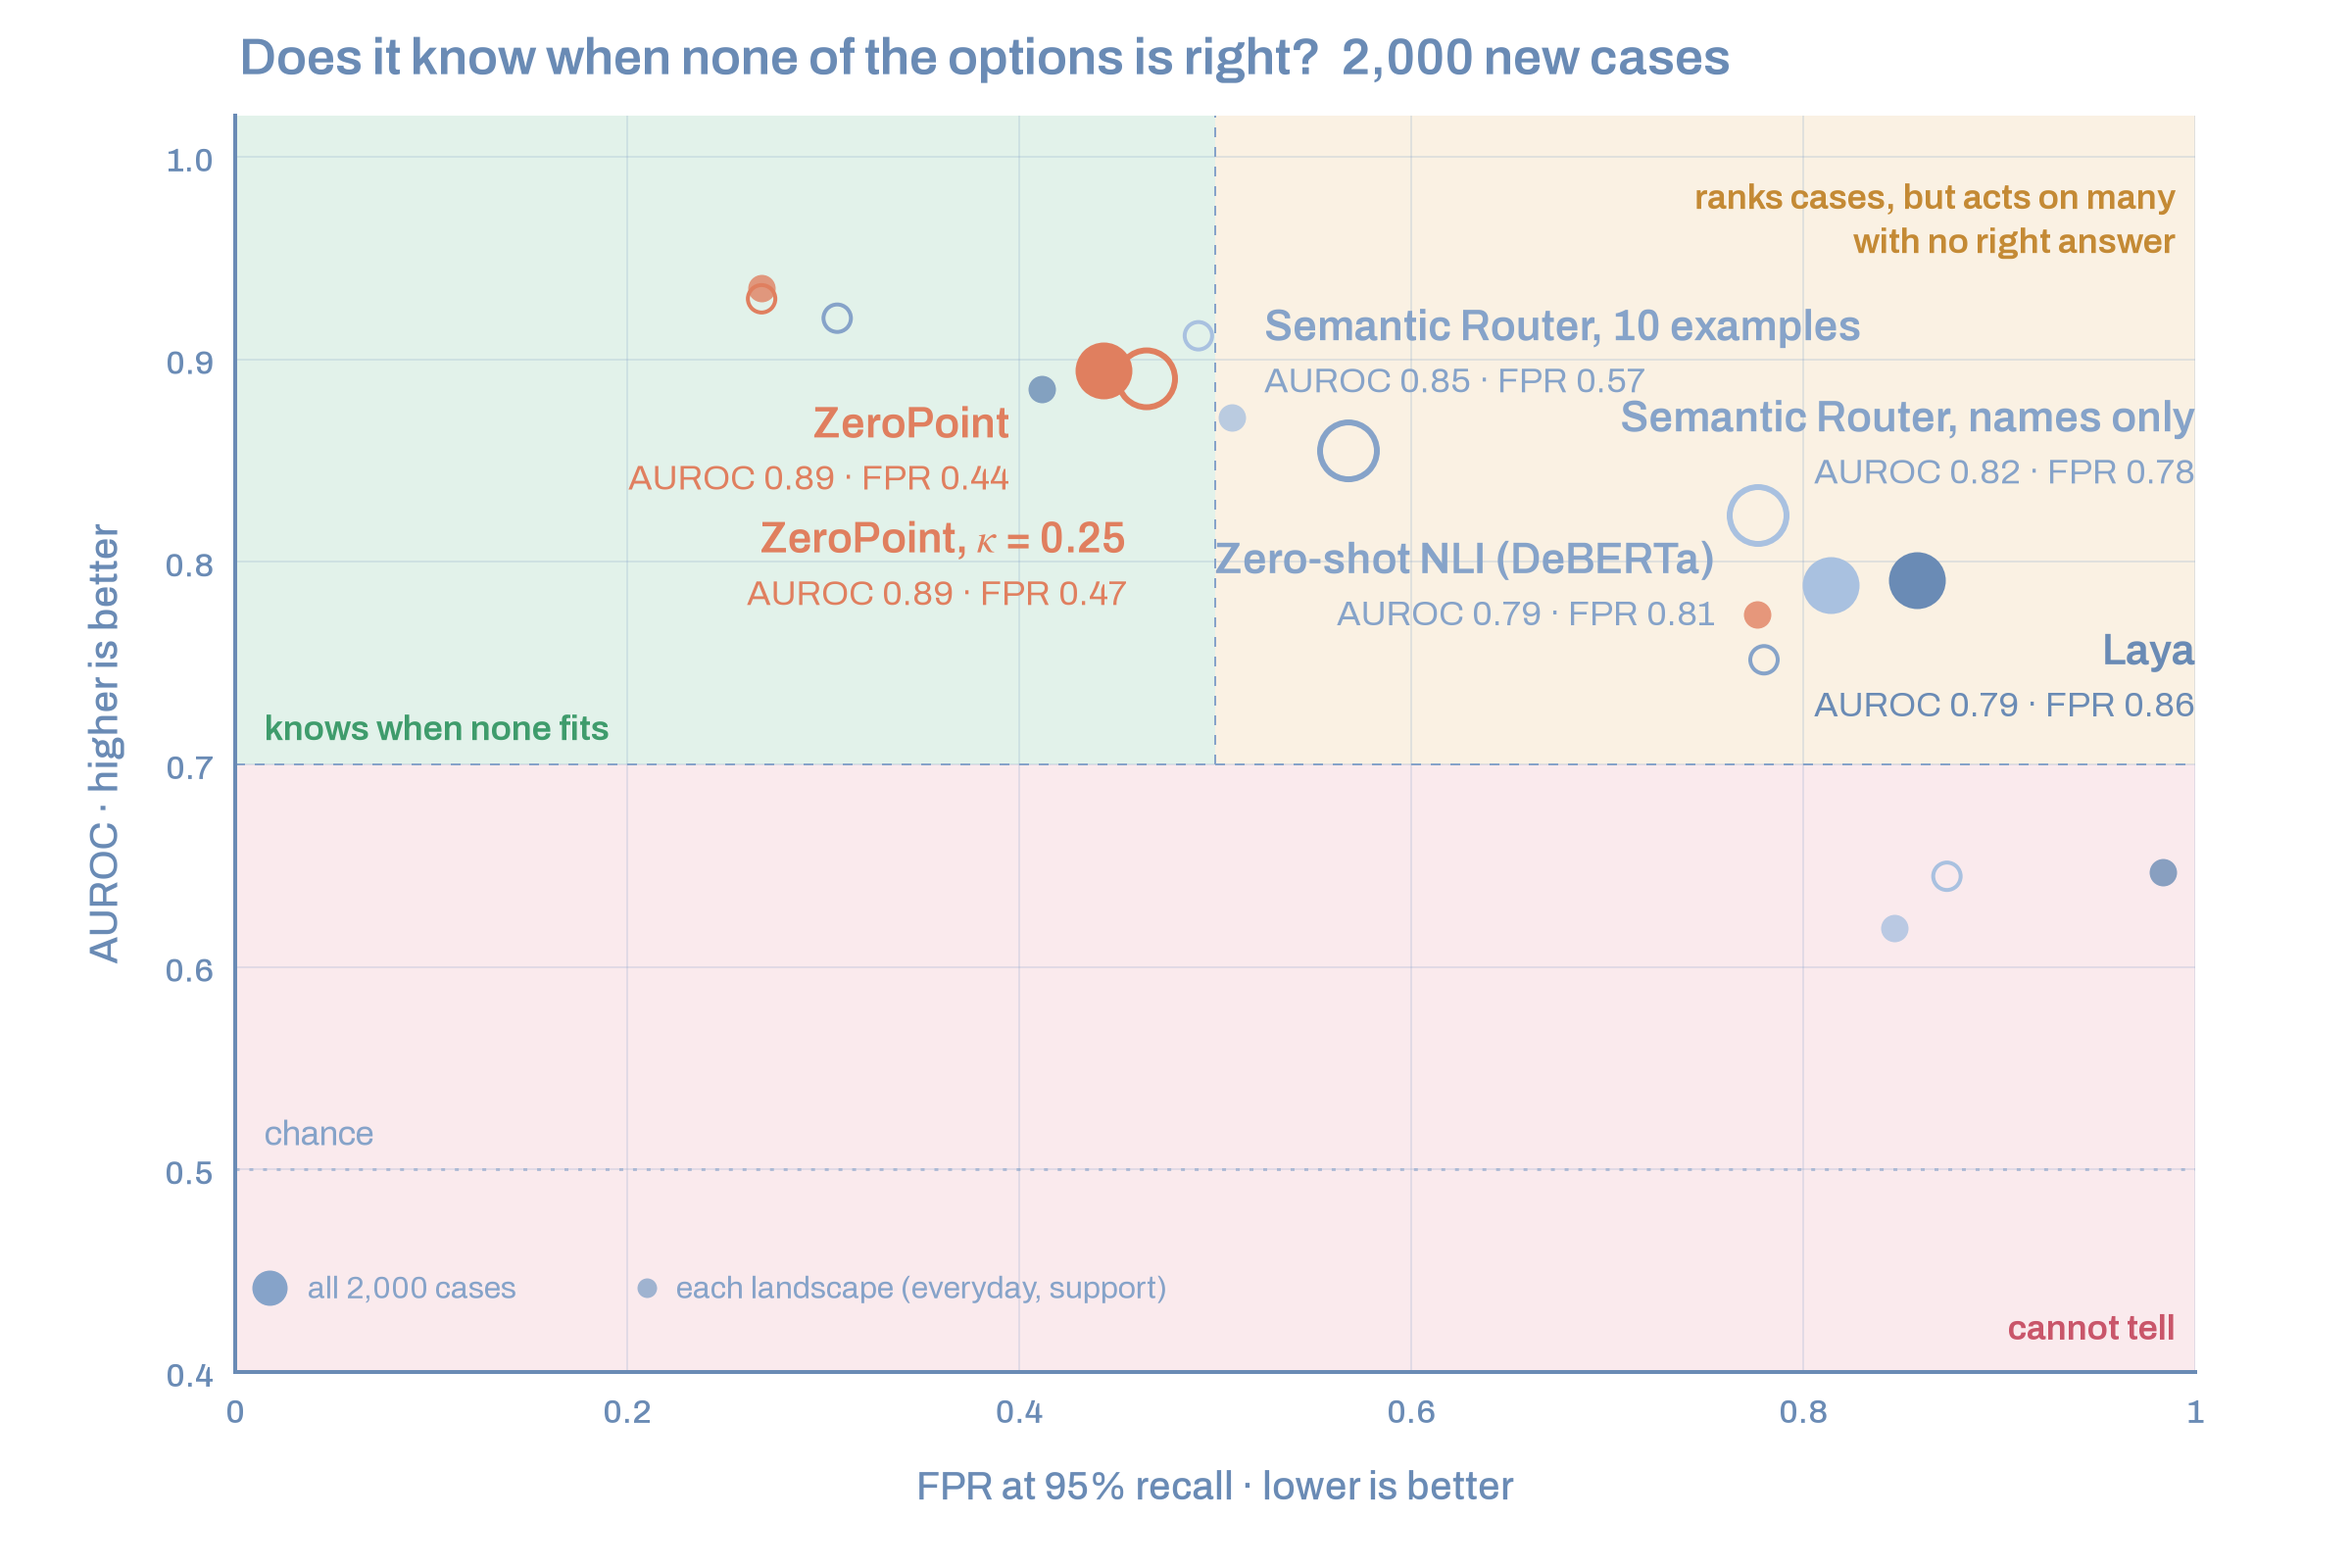
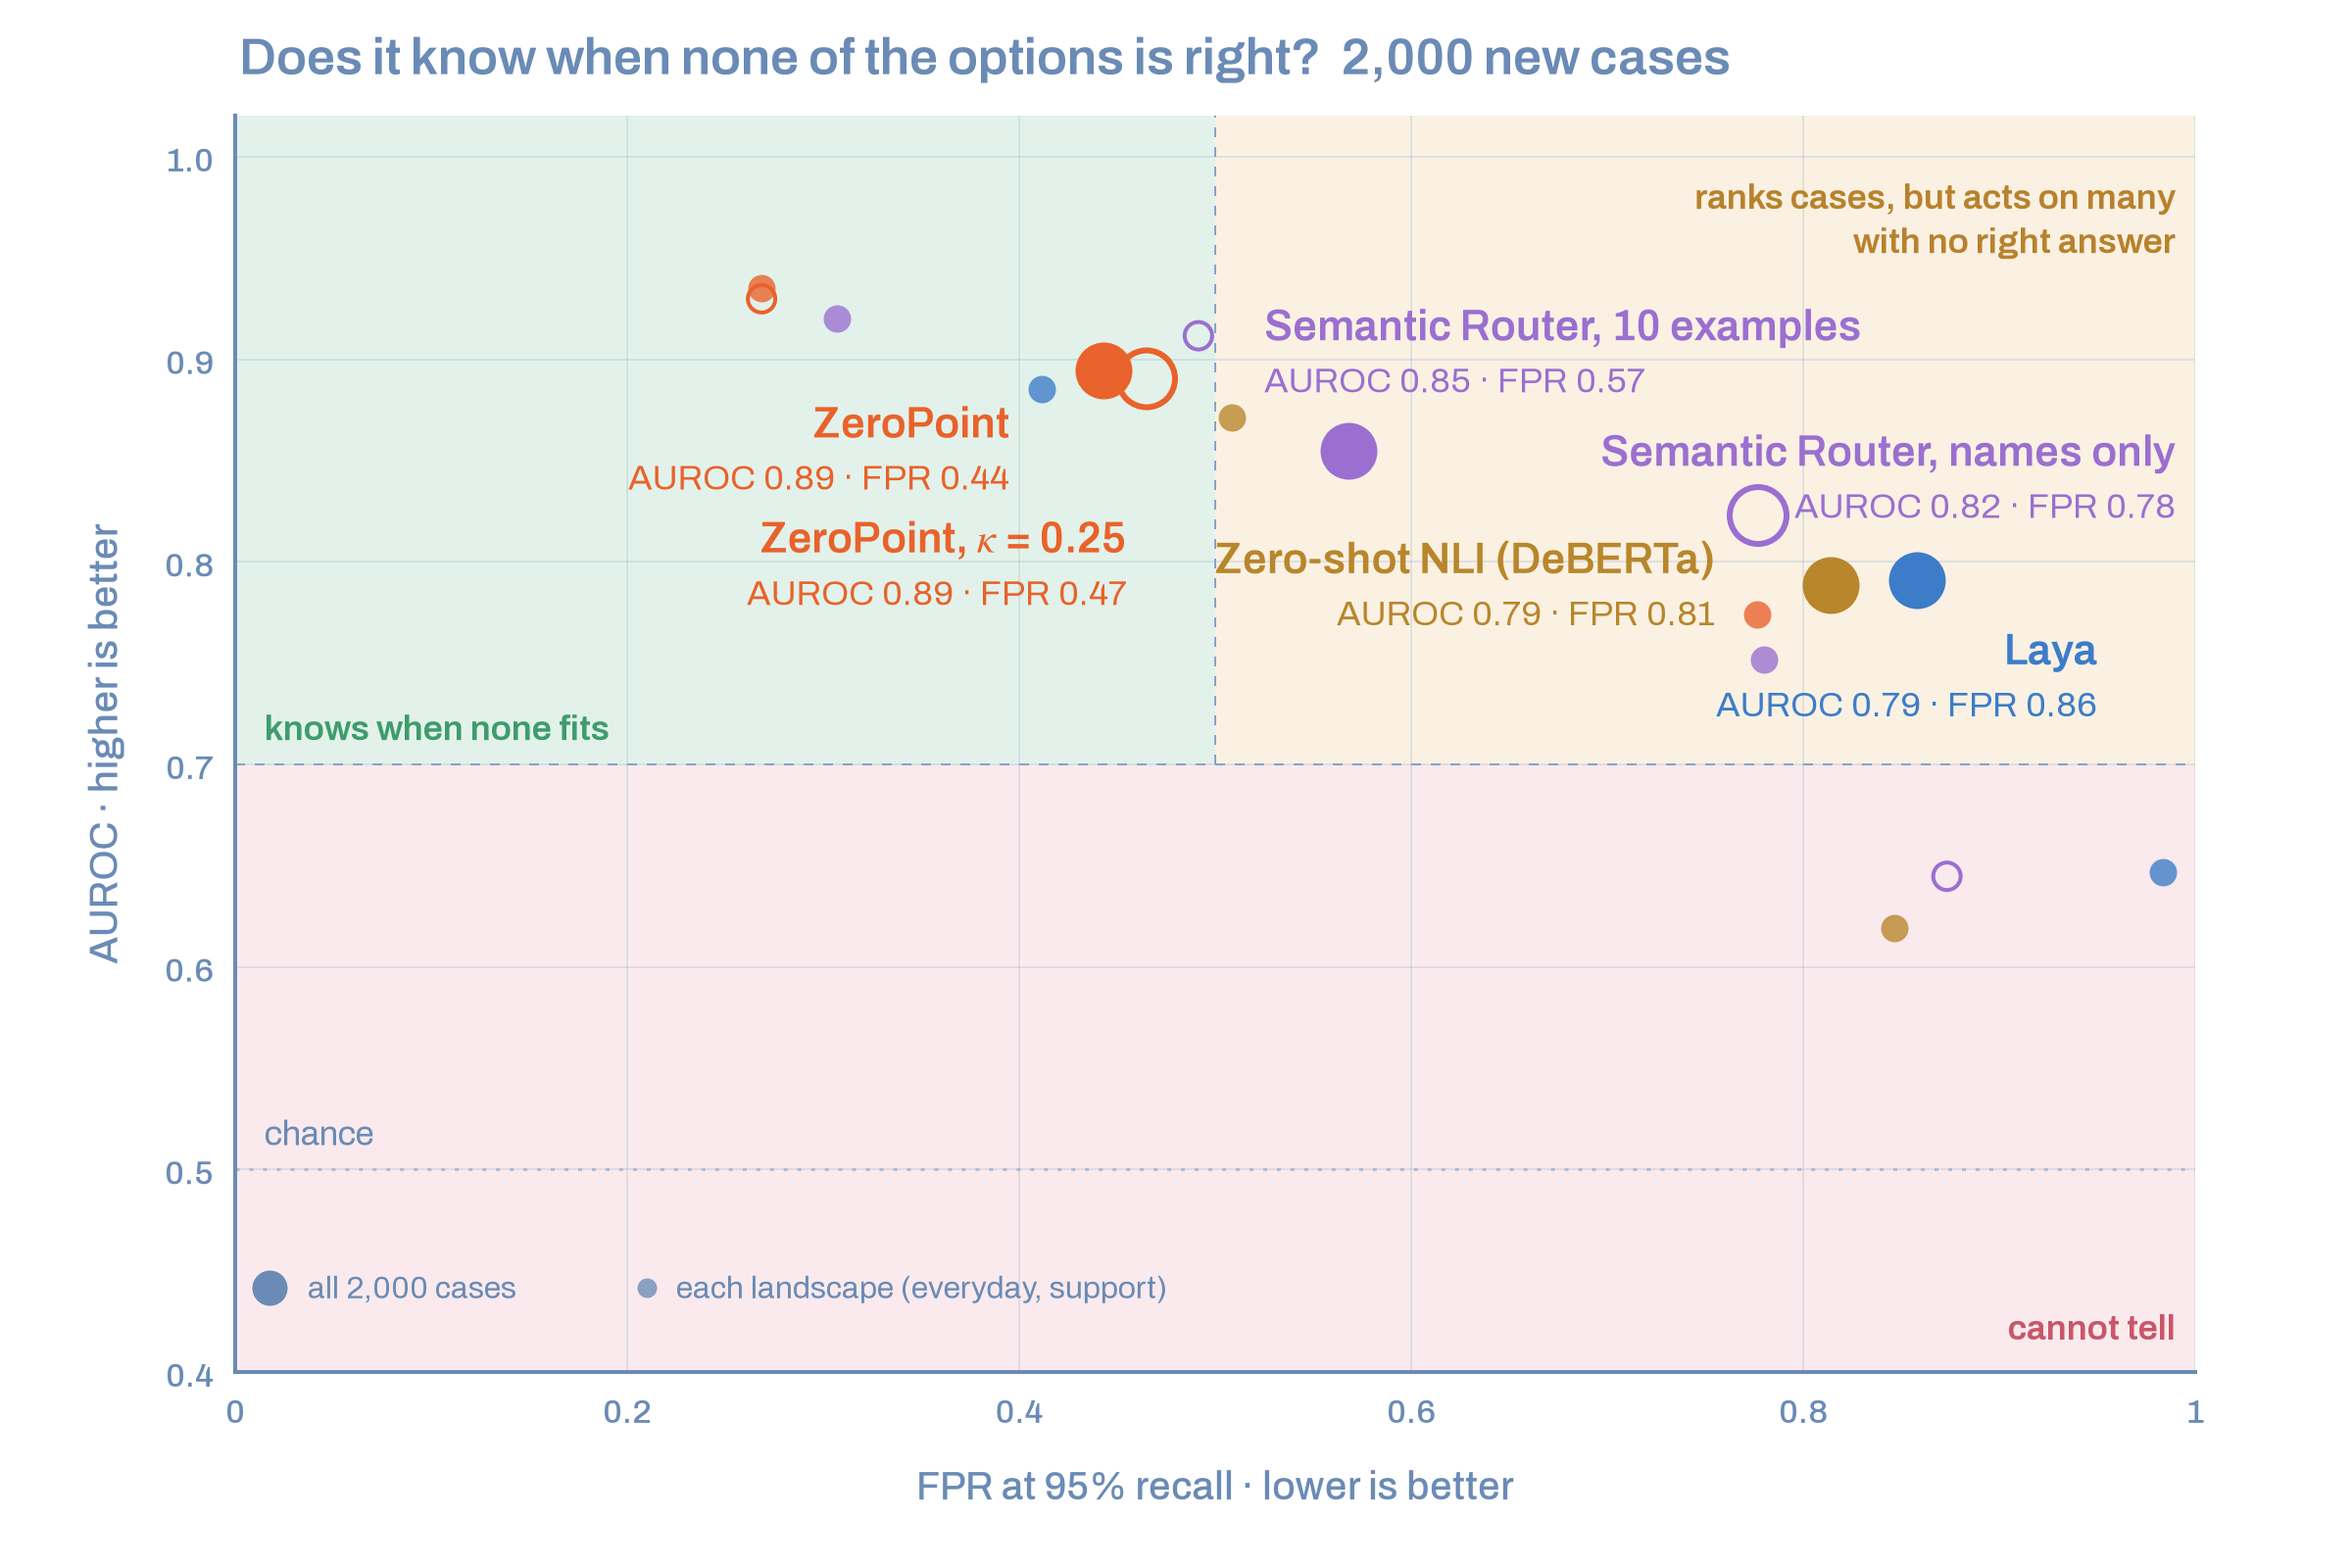
Benchmark chart: one colour per system, readable on dark and light backgrounds (#25)

diff --git a/benchmarks/benchmark_2000/chart.py b/benchmarks/benchmark_2000/chart.py
@@ -31,21 +31,27 @@ DPI = 120
 PT = 72 / DPI                     # points per pixel
 px = lambda v: v * PT             # size in pixels -> points
 
-BLUE, LINE, ORANGE, LIGHT = "#6a8bb5", "#86a3c9", "#e07f5f", "#a9c1e0"
+BLUE, LINE = "#6a8bb5", "#86a3c9"          # axes and grid, as in benchmark-chart.png
+# One colour per system, each with at least 3:1 contrast on GitHub's dark background (#0d1117) and on white.
+ZP = "#e9622b"        # ZeroPoint            dark 5.6 · white 3.4
+LAYA = "#3d7cc9"      # Laya                 dark 4.4 · white 4.3
+SR = "#9b6fd0"        # Semantic Router      dark 5.0 · white 3.8
+NLI = "#b8862b"       # zero-shot NLI        dark 5.8 · white 3.2
+NEUTRAL = BLUE        # legend and "chance"  dark 5.4 · white 3.5
 ZONE_GREEN, ZONE_AMBER, ZONE_RED = (75 / 255, 174 / 255, 124 / 255, 0.16), (224 / 255, 168 / 255, 81 / 255, 0.16), \
     (214 / 255, 82 / 255, 107 / 255, 0.12)
-TXT_GREEN, TXT_AMBER, TXT_RED = "#3f9c6c", "#c48a35", "#c9566a"
+TXT_GREEN, TXT_AMBER, TXT_RED = "#3f9c6c", "#b8822c", "#c9566a"
 
 BIG, SMALL = px(58) ** 2, px(28) ** 2          # marker areas (pt^2) for 58 px and 28 px circles
 
 # system -> label, colour, filled, label anchor (x, y in data units), alignment
 STYLE = {
-    "zeropoint": ("ZeroPoint", ORANGE, True, (0.395, 0.857), "right"),
-    "zeropoint_k025": (r"ZeroPoint, $\kappa$ = 0.25", ORANGE, False, (0.455, 0.80), "right"),
-    "sr_fewshot": ("Semantic Router, 10 examples", LINE, False, (0.525, 0.905), "left"),
-    "sr_names": ("Semantic Router, names only", LIGHT, False, (1.0, 0.86), "right"),
-    "laya": ("Laya", BLUE, True, (1.0, 0.745), "right"),
-    "nli_deberta": ("Zero-shot NLI (DeBERTa)", LIGHT, True, (0.755, 0.79), "right"),
+    "zeropoint": ("ZeroPoint", ZP, True, (0.395, 0.857), "right"),
+    "zeropoint_k025": (r"ZeroPoint, $\kappa$ = 0.25", ZP, False, (0.455, 0.80), "right"),
+    "sr_fewshot": ("Semantic Router, 10 examples", SR, True, (0.525, 0.905), "left"),
+    "sr_names": ("Semantic Router, names only", SR, False, (0.99, 0.843), "right"),
+    "laya": ("Laya", LAYA, True, (0.95, 0.745), "right"),
+    "nli_deberta": ("Zero-shot NLI (DeBERTa)", NLI, True, (0.755, 0.79), "right"),
 }
 
 
@@ -87,7 +93,7 @@ def main(results_path, out_path):
     ax.text(0.99, 0.99, "ranks cases, but acts on many\nwith no right answer", fontsize=px(36), color=TXT_AMBER,
             weight="semibold", ha="right", va="top", linespacing=1.15)
     ax.text(0.99, 0.416, "cannot tell", fontsize=px(36), color=TXT_RED, weight="semibold", ha="right")
-    ax.text(0.015, 0.512, "chance", fontsize=px(35), color=LINE)
+    ax.text(0.015, 0.512, "chance", fontsize=px(35), color=NEUTRAL)
 
     for n, (label, col, filled, (lx, ly), ha) in STYLE.items():
         if n not in R:
@@ -103,16 +109,16 @@ def main(results_path, out_path):
             ax.scatter([e["fpr95"]], [e["auroc"]], s=BIG, color=col, lw=0, zorder=4)
         else:
             ax.scatter([e["fpr95"]], [e["auroc"]], s=BIG, facecolor="none", edgecolor=col, lw=px(6), zorder=4)
-        tcol = LINE if col == LIGHT else col
+        tcol = col
         ax.text(lx, ly, label, fontsize=px(43.5), color=tcol, weight="semibold", ha=ha, va="bottom", zorder=5)
         ax.text(lx, ly - 0.006, f"AUROC {e['auroc']:.2f} · FPR {e['fpr95']:.2f}", fontsize=px(36), color=tcol,
                 ha=ha, va="top", zorder=5)
 
     # legend, as in the original: big marker = the whole benchmark, small = one part of it
-    ax.scatter([0.0175], [0.4415], s=px(36) ** 2, color=LINE, lw=0, zorder=4)
-    ax.text(0.037, 0.4415, "all 2,000 cases", fontsize=px(31.6), color=LINE, va="center")
-    ax.scatter([0.21], [0.4415], s=px(20) ** 2, color=LINE, alpha=0.78, lw=0, zorder=4)
-    ax.text(0.225, 0.4415, "each landscape (everyday, support)", fontsize=px(31.6), color=LINE, va="center")
+    ax.scatter([0.0175], [0.4415], s=px(36) ** 2, color=NEUTRAL, lw=0, zorder=4)
+    ax.text(0.037, 0.4415, "all 2,000 cases", fontsize=px(31.6), color=NEUTRAL, va="center")
+    ax.scatter([0.21], [0.4415], s=px(20) ** 2, color=NEUTRAL, alpha=0.78, lw=0, zorder=4)
+    ax.text(0.225, 0.4415, "each landscape (everyday, support)", fontsize=px(31.6), color=NEUTRAL, va="center")
 
     fig.savefig(out_path, dpi=DPI, transparent=True)
 
